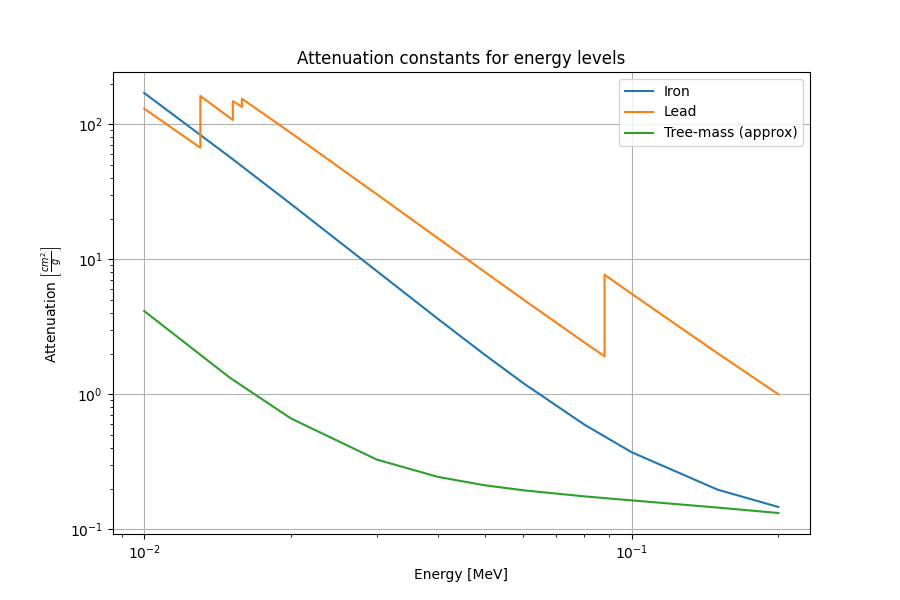
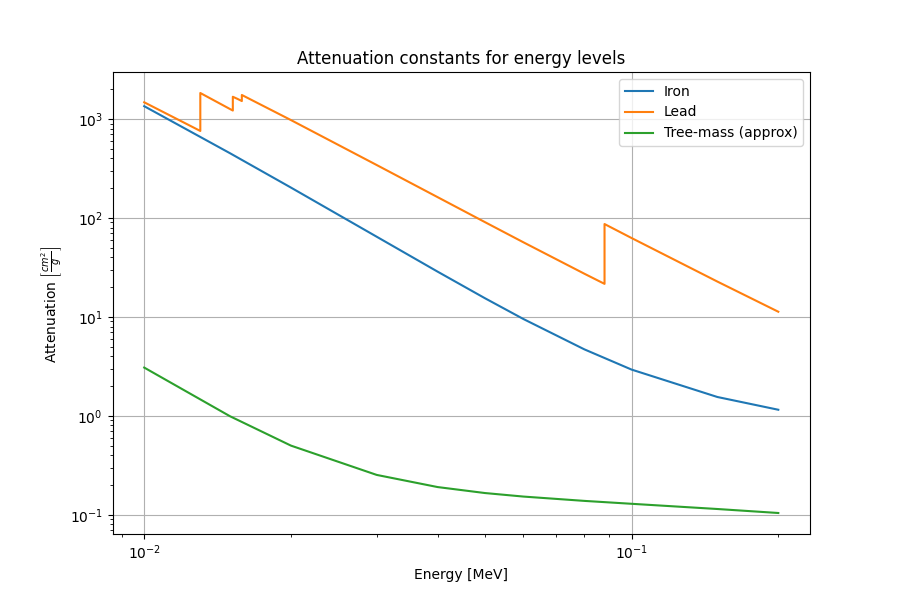
Attenuation

diff --git a/Exam_02526/attenuation_constants.py b/Exam_02526/attenuation_constants.py
@@ -20,41 +20,76 @@ attenuation_carbon = data_carbon[:,1] # cm^2/g
 data_hydrogen = np.loadtxt("Exam_02526/hydrogen_attenuation_data.txt")
 energy_hydrogen = data_hydrogen[:,0] # MeV 
 attenuation_hydrogen = data_hydrogen[:,1] # cm^2/g 
+# print(energy_hydrogen[11])
+# print(attenuation_hydrogen[11])
+# print(energy_carbon[11])
+# print(attenuation_carbon[11])
+# print(energy_oxygen[11])
+# print(attenuation_oxygen[11])
+# Tree mass approximation from molar masses
+# Beech: 
+# Hydrogen: 6%
+# Carbon: 49.5% 
+# Oxygen: 44.5% 
 
-# Tree mass approximation from molar masses. 
-# Hydrogen: 7%
-# Carbon: 40% 
-# Oxygen: 53% 
+# Fir:
+# Hydrogen: 6% 
+# Carbon: 50.5% 
+# Oxygen: 43.5% 
 
-tree_attenuation = 0.07*attenuation_hydrogen + 0.4*attenuation_carbon + 0.53*attenuation_oxygen
-
+tree_attenuation_beech = 0.06*attenuation_hydrogen + 0.495*attenuation_carbon + 0.445*attenuation_oxygen
+tree_attenuation_fir = 0.06*attenuation_hydrogen + 0.505*attenuation_carbon + 0.435*attenuation_oxygen
 # Constraining to plot from 10 to 200 keV 
 energyplot_iron = energy_iron[10:21]
 energyplot_lead = energy_lead[21:41]
 energyplot_tree = energy_hydrogen[8:19]
 attenuationplot_iron = attenuation_iron[10:21]
 attenuationplot_lead = attenuation_lead[21:41]
-attenuationplot_tree = tree_attenuation[8:19]
+attenuationplot_beech = tree_attenuation_beech[8:19]
+attenuationplot_fir = tree_attenuation_fir[8:19]
+
+# print("energy iron: ",energyplot_iron[3])
+# print("attenuation iron:",attenuationplot_iron[3])
+# print("energy lead: ",energyplot_lead[10])
+# print("attenuation lead: ",attenuationplot_lead[10])
+# print("energy tree: ",energyplot_tree[3])
+# print("attenuation beech: ",attenuationplot_beech[3])
+# print("attenuation fir: ",attenuationplot_fir[3])
 
 # Densities
 # Steel density: 7.9 g/cm^3 
 # Lead density: 11.3 g/cm^3 
-# Tree density: 0.8 g/cm^3 
+# Beech density: 0.8 g/cm^3
+# Fir density: 0.53 g/cm^3 
 
 rho_steel = 7.9
 rho_lead = 11.3
-rho_tree = 0.8
+rho_beech = 0.8
+rho_fir = 0.53
+
 attenuationplot_iron = attenuationplot_iron*rho_steel
 attenuationplot_lead = attenuationplot_lead*rho_lead
-attenuationplot_tree = attenuationplot_tree*rho_tree
+attenuationplot_beech = attenuationplot_beech*rho_beech
+attenuationplot_fir = attenuationplot_fir*rho_fir
+
+# Attenutation constants for 30 keV 
+# Iron 
+print("Attenuation constant pure iron = ",attenuationplot_iron[3], "1/cm")
+# Lead 
+print("Attenuation constant pure lead = ",attenuationplot_lead[10], "1/cm")
+# Beech 
+print("Attenuation constant pure beech = ",attenuationplot_beech[3], "1/cm")
+# Fir 
+print("Attenuation constant pure fir = ",attenuationplot_fir[3], "1/cm")
 
 plt.figure(figsize=(9,6))
 plt.loglog(energyplot_iron,attenuationplot_iron)
 plt.loglog(energyplot_lead,attenuationplot_lead)
-plt.loglog(energyplot_tree,attenuationplot_tree)
+plt.loglog(energyplot_tree,attenuationplot_beech)
+plt.loglog(energyplot_tree,attenuationplot_fir)
 plt.xlabel('Energy [MeV]')
 plt.ylabel(r'Attenuation $\left[ \frac{1}{cm} \right]$ ')
-plt.legend(['Iron','Lead','Tree-mass (approx)'])
+plt.legend(['Iron','Lead','Beech', 'Fir'])
 plt.title('Attenuation constants for energy levels with densities')
 plt.grid()
 plt.savefig('Exam_02526/attenuation_plot_rho.png')
@@ -69,13 +104,12 @@ plt.show()
 # Tree = 0.20*1e-2 
 # Iron = 29*1e-2 
 # Lead = 164*1e-2 
-
 quit()
 
 plt.figure(figsize=(9,6))
 plt.loglog(energyplot_iron,attenuationplot_iron)
 plt.loglog(energyplot_lead,attenuationplot_lead)
-plt.loglog(energyplot_tree,attenuationplot_tree)
+plt.loglog(energyplot_tree,attenuationplot_beech)
 plt.xlabel('Energy [MeV]')
 plt.ylabel(r'Attenuation $\left[ \frac{cm^2}{g} \right]$ ')
 plt.legend(['Iron','Lead','Tree-mass (approx)'])
